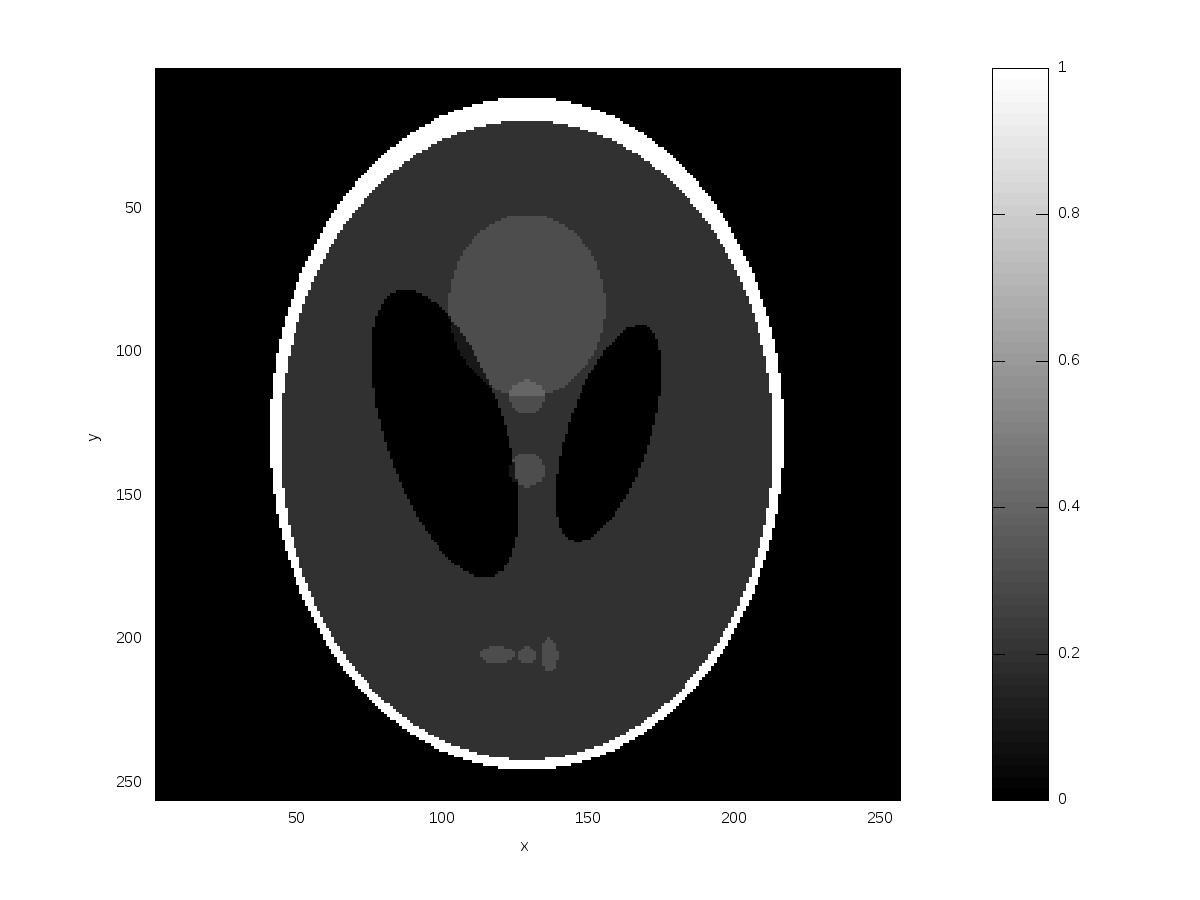
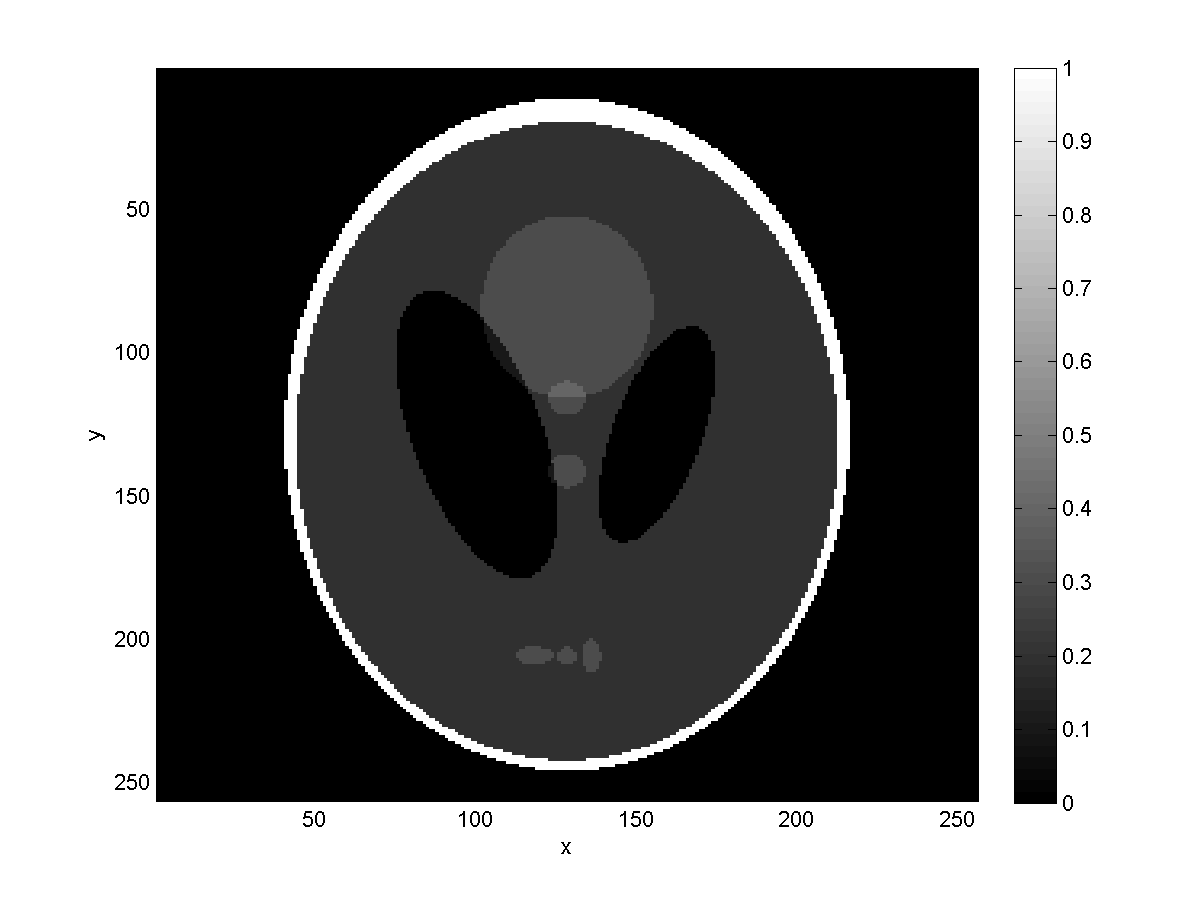
Make sourcecode more compatible to Matlab 2007

diff --git a/trunk/run.m b/trunk/run.m
@@ -1,78 +1,85 @@
-%Size of reconstructed image
+
+%% Size of reconstructed image
 N=256;
 
+%% Create Phantom
 P = phantom('Modified Shepp-Logan',N);
 %P = zeros(N);
 %P(200,100)=1;
 
 figure(1)
 imagesc(P)
-xlabel("x"),ylabel("y"),colormap(gray),colorbar
+xlabel('x'),ylabel('y'),colormap(gray),colorbar
 print -dpng 1_phantom.png
 
 % apply radon transformation
 [RT,XP] = radon(P);
 
-% noise?
+% apply noise?
+%RT = RT * rand
 
-%Show radon image
+%% Show radon image
 figure(2)
 imagesc(RT);
-xlabel("theta"),ylabel("s"),colormap(gray),colorbar
+xlabel('theta'),ylabel('s'),colormap(gray),colorbar
 print -dpng 2_radon.png
 
-% polar fourier transform
+%% polar fourier transform
 F2 = fftshift(fft(RT),1);
 
-%F21 = vertcat( F2([ceil(a/2):a],:), F2([1:floor(a/2)],:));
+%% F21 = vertcat( F2([ceil(a/2):a],:), F2([1:floor(a/2)],:));
 
 [a,b]=size(F2);
-[Theta Omega]=meshgrid([1:b],[1:a]-floor(a/2));
+theta=(1:b);
+omega=(1:a)-floor(a/2)
+[Theta Omega]=meshgrid(theta,omega);
 
 figure(3)
-imagesc(Theta, Omega, real(F2))
-xlabel("theta"),ylabel("omega_s")
+imagesc(theta, omega, real(F2)),colormap(gray),colorbar
+xlabel('theta'),ylabel('omega_s')
 print -dpng 3a_fourier_radon_real.png
 
 figure(4)
-imagesc(Theta, Omega, imag(F2))
-xlabel("theta"),ylabel("omega_s")
+imagesc(theta, omega, imag(F2)),colormap(gray),colorbar
+xlabel('theta'),ylabel('omega_s')
 print -dpng 3b_fourier_radon_imag.png
 
-%change to x-y coordinate
-
+%% change to x-y coordinate
 F22 = horzcat(F2,F2,F2);
-[Theta2 Omega2]=meshgrid([1-b:b+b],[1:a]-floor(a/2));
+theta2=(1-b:b+b);
+omega2=(1:a)-floor(a/2);
+[Theta2 Omega2]=meshgrid(theta2,omega2);
 
-[XX YY]=meshgrid( [1:N]-N/2 , [1:N]-N/2 );
+xx=(1:N)-N/2;
+yy=(1:N)-N/2;
+[XX YY]=meshgrid( xx , yy );
 th = atan2(YY,XX).*180./pi;
 w = sqrt( XX.^2 + YY.^2 ) .* sign (th);
 th = abs(th);
 
 Fxy = interp2(Theta2,Omega2,F22,th,w);
-%set all nan to zero
+% set all nan to zero
 Fxy(isnan(Fxy))=0;
 
 figure(5)
-imagesc(XX,YY,real(Fxy))
-axis equal,xlabel("omega_x"),ylabel("omega_y")
+imagesc(xx,yy,real(Fxy)),colormap(gray),colorbar
+xlabel('omega_x'),ylabel('omega_y')
 print -dpng 4a_fourier_xy_real.png
 
 figure(6)
-imagesc(XX, YY, imag(Fxy))
-axis equal,xlabel("omega_x"),ylabel("omega_y")
+imagesc(xx, yy, imag(Fxy)),colormap(gray),colorbar
+xlabel('omega_x'),ylabel('omega_y')
 print -dpng 4b_fourier_xy_imag.png
 
-%inverse fft
+%% inverse fft
 f = ifft2(Fxy);
 
 figure(7)
-imagesc(XX,YY,real(f))
-axis equal,xlabel("x"),ylabel("y")
+imagesc(xx,yy,real(f)),colormap(gray),colorbar
+xlabel('x'),ylabel('y')
 print -dpng 5_reconstruct_xy_real.png
 
 figure(8)
-imagesc(XX,YY,imag(f))
-axis equal,xlabel("x"),ylabel("y")
+imagesc(xx,yy,imag(f)),colormap(gray),colorbar
+xlabel('x'),ylabel('y')
 print -dpng 5_reconstruct_xy_imag.png
-
